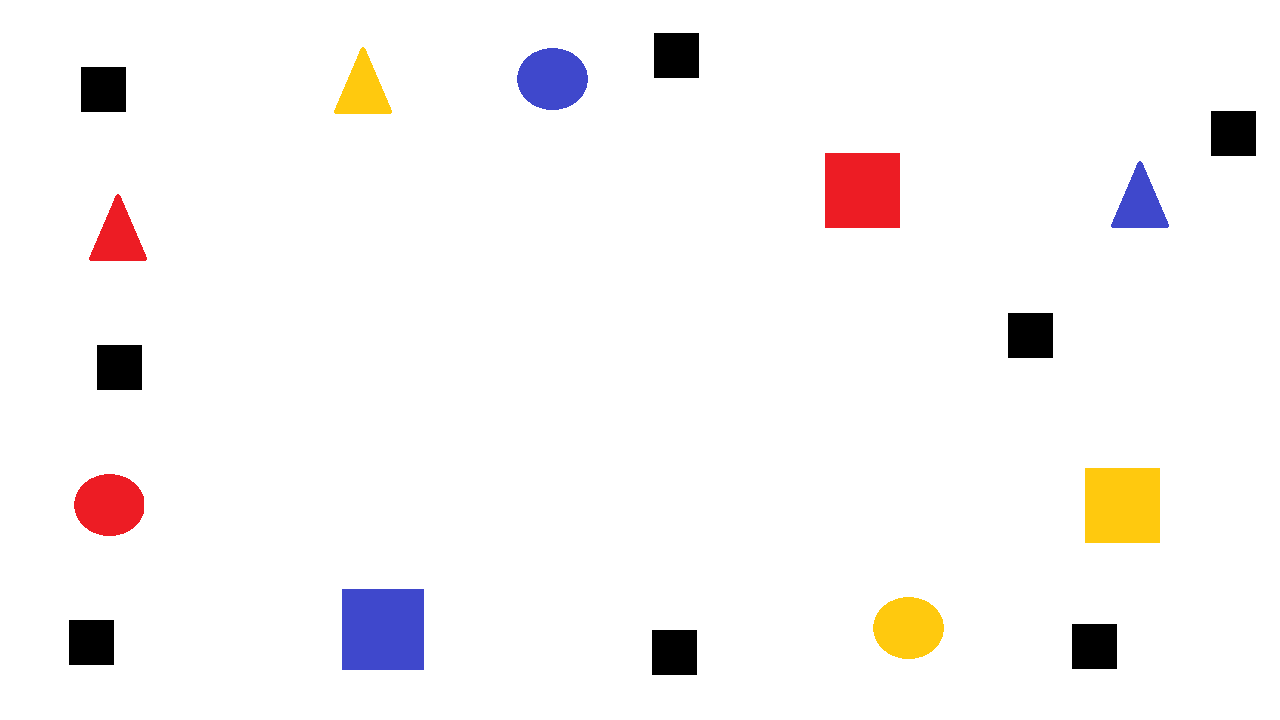
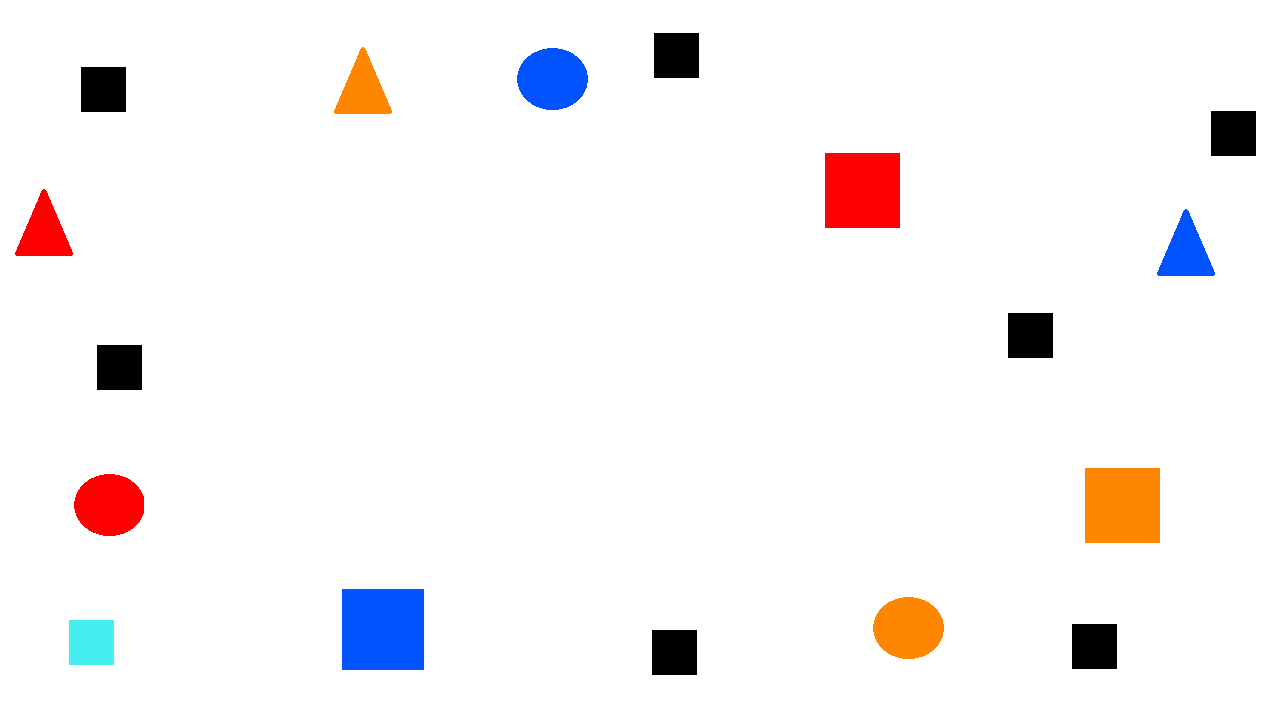
Incluido pontos para desenhar as coisas da metodologia

diff --git a/Detection.py b/Detection.py
@@ -3,6 +3,7 @@ import time
 import numpy as np
 import cv2
 from Bezier import Bezier
+from imutils.video import FileVideoStream
 
 # myColors = [[0, 179, 0, 135, 0, 45, "Black"],
 #             [0, 10, 154, 194, 112, 182, "Red"],
@@ -20,7 +21,7 @@ myColors = [[0, 179, 0, 135, 0, 45, "Black"],
             [0, 15, 13, 255, 253, 255, "Red"],
             [109, 125, 239, 255, 252, 255, "Blue"],
             [15, 27, 252, 255, 238, 255, "Yellow"],
-            [84, 103, 180, 195, 230, 240, "Turquish Blue"]]
+            [84, 103, 180, 195, 230, 240, "Turquish"]]
 
 
 global startEndPoint
@@ -81,7 +82,7 @@ def getContours(img):
                                                cv2.CHAIN_APPROX_NONE)  # Algoritmo que pega os contornos externos
         for cnt in contours:
             area = cv2.contourArea(cnt)
-            if area > 10:
+            if area > 1000:
                 objectType = ""
                 # cv2.drawContours(imgResult, cnt, -1, (0,0,0), 5) #-1 desenha todos os contornos
 
@@ -112,7 +113,7 @@ def getContours(img):
                 # cv2.putText(imgResult, objectType, ((posX + 10), (posY + 10)),
                 #             cv2.FONT_HERSHEY_COMPLEX, 0.7, (0, 0, 0), 2, cv2.LINE_AA)
 
-                if (objectType == "Square") and (color[6] == "Turquish Blue"):
+                if (objectType == "Square") and (color[6] == "Turquish"):
                     startEndPoint.insert(0, [(posX + posX + width) / 2, (posY + posY + width) / 2])
 
                 elif (objectType == "Square") and (color[6] == "Black"):
@@ -134,7 +135,7 @@ def findWay(img, startEndPoint, boundingBoxes):
     path = []
     nodes = startEndPoint.copy()
     startPos = [nodes[0][0], nodes[0][1]]
-    nodes.pop(0)
+
 
     while len(nodes) > 0:
 
@@ -159,8 +160,8 @@ def findWay(img, startEndPoint, boundingBoxes):
     startPoint = startEndPoint[0]
 
     for point in path:
-        cv2.line(img, (int(startPoint[0]), int(startPoint[1])), (int(point[0]), int(point[1])), (0, 0, 0),
-                 2)  # Cria uma linha reta entra o ponto inicial e o final
+        cv2.line(img, (int(startPoint[0]), int(startPoint[1])), (int(point[0]), int(point[1])), (151, 85, 47),
+                 4)  # Cria uma linha reta entra o ponto inicial e o final
         startPoint = point.copy()
 
     startPosition = startEndPoint[0][0], startEndPoint[0][1]
@@ -208,8 +209,9 @@ def findColisions(img, startPoint, path, boundingBoxes):
 
                     if status >= 0:
                         finalWay.pop(-1)
+                        cv2.circle(imgResult, (int(x), int(y)), 5, (255, 120, 255), -1)
                         if contoursWithColision.count(contour[0]) == 0:
-                            # cv2.circle(imgResult, (int(x), int(y)), 5, (255, 120, 255), -1)
+                            #cv2.circle(imgResult, (int(x), int(y)), 5, (255, 120, 255), -1)
                             contoursWithColision.append(contour[0])
                             params.append([a, startX, startY, contour])
 
@@ -235,8 +237,9 @@ def findColisions(img, startPoint, path, boundingBoxes):
 
                     if status >= 0:
                         finalWay.pop(-1)
+                        cv2.circle(imgResult, (int(x), int(y)), 5, (255, 120, 255), -1)
                         if contoursWithColision.count(contour[0]) == 0:
-                       # cv2.circle(imgResult, (int(x), int(y)), 5, (255, 120, 255), -1)
+                            #cv2.circle(imgResult, (int(x), int(y)), 5, (255, 120, 255), -1)
                             contoursWithColision.append(contour[0])
                             params.append([a, startX, startY, contour])
 
@@ -262,6 +265,7 @@ def findControlPoints(box, points, params):
         listOfPoints.append(point)
 
 
+
     if params[0] > -90 and params[0] < 90:
 
         # Pegar primeiro e último ponto com colisão para criar control point antes da colisão // params[0] = a (inclinação), params[1] = x e params[2] = y
@@ -281,8 +285,8 @@ def findControlPoints(box, points, params):
         yf = listOfPoints[-1][1]
 
 
-    cv2.circle(imgResult, (listOfPoints[0][0], listOfPoints[0][1]), 5, (45, 50, 160), -1)
-    cv2.circle(imgResult, (listOfPoints[-1][0], listOfPoints[-1][1]), 5, (45, 50, 160), -1)
+    #cv2.circle(imgResult, (listOfPoints[0][0], listOfPoints[0][1]), 5, (45, 50, 160), -1)
+    #cv2.circle(imgResult, (listOfPoints[-1][0], listOfPoints[-1][1]), 5, (45, 50, 160), -1)
 
     #Pegar o ponto do meio da box e criar uma circunferência, deixando uma área livre
     clearance = 15
@@ -291,7 +295,8 @@ def findControlPoints(box, points, params):
     #center = [(box[0] + box[2])/2, (box[1]+box[3])/2]
     radius = math.sqrt((xf - x0) ** 2 + (yf - y0) ** 2) + clearance
     center = [(x0 + xf)/2, (yf+y0)/2]
-
+    #cv2.circle(imgResult, [int(center[0]), int(center[1])], int(radius), (0, 0, 0), 4, cv2.LINE_AA)
+    #cv2.circle(imgResult, [int(center[0]), int(center[1])], 8, (0, 0, 0), -1, cv2.LINE_AA)
     angleOffset = math.atan(params[0])
 
     controlPoints = []
@@ -369,17 +374,17 @@ def findControlPoints(box, points, params):
 
 
     for interpolated in test_set:
-        cv2.circle(imgResult, (int(interpolated[0]), int(interpolated[1])), 2, (255, 0, 0), -1)
+        #cv2.circle(imgResult, (int(interpolated[0]), int(interpolated[1])), 3, (151, 85, 47), -1,  cv2.LINE_AA)
         finalWay.append([int(interpolated[0]), int(interpolated[1])])
 
     for way in finalWay:
-        cv2.circle(imgResult, (way[0], way[1]), 3, (255, 255, 135), -1)
+        cv2.circle(imgResult, (way[0], way[1]), 3, (151, 85, 47), -1,  cv2.LINE_AA)
 
 
-    cv2.circle(imgResult, (int(controlPoints[0][0]), int(controlPoints[0][1])), 5, (45, 50, 160), -1)
-    cv2.circle(imgResult, (int(controlPoints[1][0]), int(controlPoints[1][1])), 5, (45, 50, 160), -1)
-    cv2.circle(imgResult, (listOfPoints[0][0], listOfPoints[0][1]), 5, (0, 255, 255), -1)
-    cv2.circle(imgResult, (listOfPoints[-1][0], listOfPoints[-1][1]), 5, (255, 0, 255), -1)
+    cv2.circle(imgResult, (int(controlPoints[0][0]), int(controlPoints[0][1])), 8, (0, 140, 255), -1, cv2.LINE_AA)
+    cv2.circle(imgResult, (int(controlPoints[1][0]), int(controlPoints[1][1])), 8, (0, 140, 255), -1, cv2.LINE_AA)
+    cv2.circle(imgResult, (listOfPoints[0][0], listOfPoints[0][1]), 8, (128, 128, 128), -1,  cv2.LINE_AA)
+    cv2.circle(imgResult, (listOfPoints[-1][0], listOfPoints[-1][1]), 8, (128, 128, 128), -1,  cv2.LINE_AA)
 
     return
 
@@ -399,24 +404,32 @@ def getColors(img):
 
     return mask
 
+#fvs = FileVideoStream("Images\Input19.mp4").start()
 
-
-#cap = cv2.VideoCapture("Images\Input15.gif")
+#time.sleep(1.0)
+#cap = cv2.VideoCapture("Images\Input18.gif", cv2.CAP_FFMPEG)
 #cap.set(3, 720)
 #cap.set(4, 1280)
+#fps = cap.get(cv2.CAP_PROP_FPS)
 
 while True:
-   #
- #   success, img = cap.read()
-#
+
+    #success, img = cap.read()
+    #img = fvs.read()
+
+    #if not fvs.more():
+    #    fvs = FileVideoStream("Images\Input19.mp4").start()
+    #    time.sleep(1.0)
+    #    img = fvs.read()
+    #    cv2.resize(img, (1280, 720))
 #    if success == False:
-#        cap = cv2.VideoCapture("Images\Input15.gif")
+#        cap = cv2.VideoCapture("Images\Input18.gif", cv2.CAP_FFMPEG)
 #        success, img = cap.read()
 #
  #   img = img[0:682, 160:1119]
 
 
-    img = cv2.imread("Images\Input11.png")  # Le a imagem do disco
+    img = cv2.imread("Images\Input6.1.png")  # Le a imagem do disco
     imgResult = img.copy()
 
     mask = getContours(img)
@@ -426,6 +439,5 @@ while True:
 
     cv2.imshow("Array", imgResult)
     finalWay.clear()
-    time.sleep(3)
     if cv2.waitKey(1) & 0xFF == ord("q"):
         break

diff --git a/Image_Gen.py b/Image_Gen.py
@@ -14,6 +14,13 @@ from Bezier import Bezier
 #             [30, 130, 0, 255, 0, 255, "Blue"],
 #             [20, 60, 0, 255, 0, 255, "Yellow"]]
 
+myColors = [[0, 179, 0, 135, 0, 45, "Black"],
+            [0, 15, 13, 255, 253, 255, "Red"],
+            [109, 125, 239, 255, 252, 255, "Blue"],
+            [15, 27, 252, 255, 238, 255, "Orange"],
+            [84, 103, 180, 195, 230, 240, "Turquish"]]
+
+
 Red = [123, 179, 220, 225, 230, 240, "Red"]
 Blue = [0, 173, 0, 255, 194, 245, "Blue"]
 Yellow = [12, 179, 0, 255, 255, 255, "Yellow"]
@@ -62,22 +69,100 @@ while True:
    #  #img = img[0:682, 160:1119]
 
 
-    img = cv2.imread("Images\Input.png")  # Le a imagem do disco
+    img = cv2.imread("Images\Input18.png")  # Le a imagem do disco
 
   #Imagem RGB x HSV
+    posX, posY, width, height = 0, 0, 0, 0
     imgHSV = cv2.cvtColor(img, cv2.COLOR_BGR2HSV)
-   #
-    mask = cv2.inRange(imgHSV, (Red[0], Red[2], Red[4]),  (Red[1], Red[3], Red[5]))
-   # mask1 = cv2.inRange(imgHSV,(Blue[0], Blue[2], Blue[4]),  (Blue[1], Blue[3], Blue[5]))
-   # mask2 = cv2.inRange(imgHSV,(Yellow[0], Yellow[2], Yellow[4]),  (Yellow[1], Yellow[3], Yellow[5]))
-   # imgStack = stackImages(0.6,([img,mask],
-   #
-#Imagem gaussian Blur
-    Gaussian = cv2.GaussianBlur(mask, (11, 11), 1)
-    imgStack = stackImages(1, ([img, mask, Gaussian]))
+    startEndPoint = []
+    boxes = []
+    for color in myColors:
+        lower = np.array([color[0], color[2], color[4]])
+        upper = np.array([color[1], color[3], color[5]])
+        mask = cv2.inRange(imgHSV, lower, upper)
+
+        Gaussian = cv2.GaussianBlur(mask, (11, 11), 1)
+
+        contours, hierarchy = cv2.findContours(Gaussian, cv2.RETR_EXTERNAL,
+                                           cv2.CHAIN_APPROX_NONE)  # Algoritmo que pega os contornos externos
+        for cnt in contours:
+            area = cv2.contourArea(cnt)
+            if area > 100:
+                objectType = ""
+              #  cv2.drawContours(img, cnt, -1, (0,0,0), 5) #-1 desenha todos os contornos
+
+                perimeter = cv2.arcLength(cnt, True)  # pega o perímetro do contorno
+                polygon = cv2.approxPolyDP(cnt, 0.025 * perimeter,
+                                       True)  # Retorna os pontos que fazem parte do contorno
+                corners = len(polygon)  # Pega o número de lados estimado de acordo com os pontos do contorno
+            # print(corners)
+                posX, posY, width, height = cv2.boundingRect(polygon)  # cria um retângulo ao redor do contorno
+
+            # if posX > 0 and posY > 0:
+             #   cv2.putText(img, color[6], ((posX - 10), (posY - 30)),
+             #          cv2.FONT_HERSHEY_COMPLEX, 1, (0, 0, 0), 1, cv2.LINE_AA)
+
+                if corners == 3:
+                    objectType = "Triangle"
+                elif corners == 4:
+                    if 0.95 <= float(width) / float(height) <= 1.05:
+                        objectType = "Square"
+                    else:
+                        objectType = "Rectangle"
+                elif corners > 4:
+                    objectType = "Circle"
+
+              #  cv2.putText(img, objectType, ((posX), (posY - 5)),
+               #                  cv2.FONT_HERSHEY_COMPLEX, 1, (0, 0, 0), 1, cv2.LINE_AA)
+                cv2.rectangle(img, (posX, posY), (posX + width, posY + height),
+                      (0, 255, 0), 2)  # Desenha a bounding box
+
+                if (objectType == "Square") and (color[6] == "Turquish"):
+                    startEndPoint.insert(0, [(posX + posX + width) / 2, (posY + posY + width) / 2])
+                if (objectType == "Square") and (color[6] == "Black"):
+                    startEndPoint.append([(posX + posX + width) / 2, (posY + posY + width) / 2])
+
+        orangeBox = startEndPoint.pop(0)
+        startEndPoint.sort()
+        startEndPoint.insert(0, orangeBox)
+        wheigts = []
+        path = []
+        nodes = startEndPoint.copy()
+        startPos = [nodes[0][0], nodes[0][1]]
+        #nodes.pop(0)
+
+    while len(nodes) > 0:
+
+            for point in nodes:
+                cv2.circle(img, (int(point[0]), int(point[1])), 5,
+                           (0, 255, 0), -1)  # Desenha o ponto inicial na tela
+
+                currentWheigt = math.sqrt((startPos[0] - point[0]) ** 2 + (startPos[1] - point[1]) ** 2)
+
+                if currentWheigt > 0:
+                    wheigts.append(currentWheigt)
+
+            if len(wheigts) > 0:
+                min_wheigt = min(wheigts)
+                min_wheigt_index = wheigts.index(min_wheigt)
+                startPos = nodes[min_wheigt_index]
+                path.append(nodes[min_wheigt_index])
+
+            wheigts.clear()
+            nodes.remove(nodes[min_wheigt_index])
+
+    startPoint = startEndPoint[0]
+
+    for point in path:
+        cv2.line(img, (int(startPoint[0]), int(startPoint[1])), (int(point[0]), int(point[1])), (0, 0, 0),
+                     2)  # Cria uma linha reta entra o ponto inicial e o final
+        startPoint = point.copy()
+
+    startPosition = startEndPoint[0][0], startEndPoint[0][1]
+    imgStack = stackImages(1, ([img,Gaussian]))
 
     cv2.imshow("Array", imgStack)
 
     time.sleep(3)
-    if cv2.waitKey(1) & 0xFF == ord("q"):
+    if cv2.waitKey(0) & 0xFF == ord("q"):
         break
